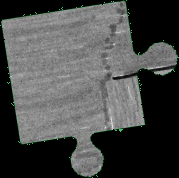
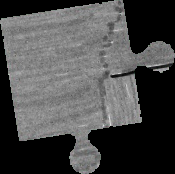
some results

diff --git a/ex.py b/ex.py
@@ -5,25 +5,27 @@ import cv2 as cv
 import numpy as np
 from matplotlib import pyplot as plt #import function library which will be used 
 
+#part1 Pretreatment
 pattern = cv.imread('./puzzle_generator/puzzle_unsolved.jpg')
 pre = cv.imread('./puzzle_generator/puzzle_unsolved.jpg')
 
-
+#Extract background
 pattern = cv.cvtColor(pattern,cv.COLOR_BGR2HSV)
-
 lower_green = np.array([45,50,50])
 upper_green = np.array([81,255,255])
 mask1 = cv.inRange(pattern,lower_green,upper_green)
 res = cv.bitwise_and(pattern,pattern, mask= mask1)
 pattern = cv.cvtColor(res,cv.COLOR_HSV2BGR)
 
+#change to binary image and make filter
 pattern = (0.3*pattern[:,:,2] + 0.6*pattern[:,:,1] + 0.1*pattern[:,:,0]).astype(np.uint8)
 pattern = 255 * (pattern < 142).astype(np.uint8)
 
-
-'''cv.imshow('',pattern)
-cv.waitKey(0)'''
-
+kernel = np.ones((5,5),np.uint8)
+#pattern = cv.morphologyEx(pattern,cv.MORPH_OPEN,kernel)
+kernel2 = np.ones((3,3),np.uint8)
+pattern = cv.erode(pattern,kernel,iterations = 1)
+pattern = cv.dilate(pattern,kernel2,iterations = 1)
 #part 2 find contour
 
 contours, _ = cv.findContours(pattern, cv.RETR_TREE, cv.CHAIN_APPROX_SIMPLE)
@@ -35,9 +37,7 @@ print('Contour lengths: ', [len(i) for i in contours])
 res = np.ones(pattern.shape, dtype=np.uint8) * 255
 cv.drawContours(res, contours, -1, (100,100,100), thickness=cv.FILLED)
 
-'''cv.imshow('',res)
-cv.waitKey(0)'''
-
+#cut pieces
 pieces = []
 for i in range(len(contours)):
 	mask = np.ones(pattern.shape, dtype=np.uint8)*255
@@ -46,44 +46,19 @@ for i in range(len(contours)):
 
 	piece = copy.deepcopy(pre)
 	piece[mask > 0] = 0
-	rows,cols=piece.shape[:2]
-
-	
-	'''cv.imshow('',piece)
-	cv.waitKey(0)'''
 	
 	x,y,w,h = cv.boundingRect(contours[i])
 	print(x, y, w, h)
-	a = piece[y:y+h, x:x+w]
-	
-	cv.imshow('',a)
+	pieces.append(piece[y:y+h, x:x+w])
+
+	cv.imshow('',piece)
 	cv.waitKey(0)
 
-
-	rect = cv.minAreaRect(contours[i])
-	x,y = np.int0(rect[0])
-	w,h = np.int0(rect[1])
-	M = cv.getRotationMatrix2D((x,y),rect[2],1)
-	piece = cv.warpAffine(a,M,(cols,rows))
-
-
-	'''cv.imshow('',piece)
-	cv.waitKey(0)'''
-
-	
-	
-	
-
-
-
-	x,y,w,h = cv.boundingRect(contours[i])
-	#print(x, y, w, h)
-	pieces.append(piece[y:y+h, x:x+w])
 
 side = np.ceil(np.sqrt(len(pieces)))
 for i in range(len(pieces)):
 	plt.subplot(side, side, i+1), plt.imshow(pieces[i])
-	#cv.imwrite('piece_'+str(i)+'.png', pieces[i])
+	cv.imwrite('./segmented/piece_'+str(i)+'.png', pieces[i])
 	
 plt.show()
 
